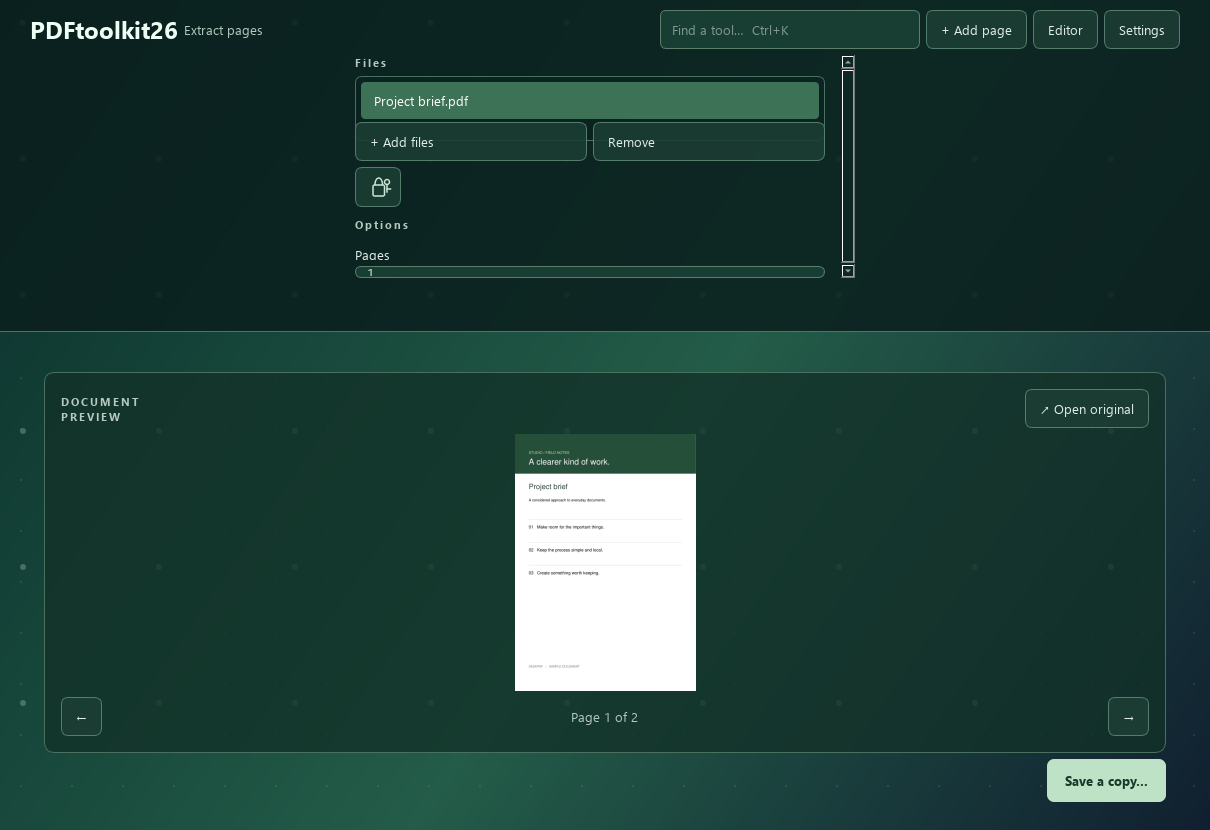
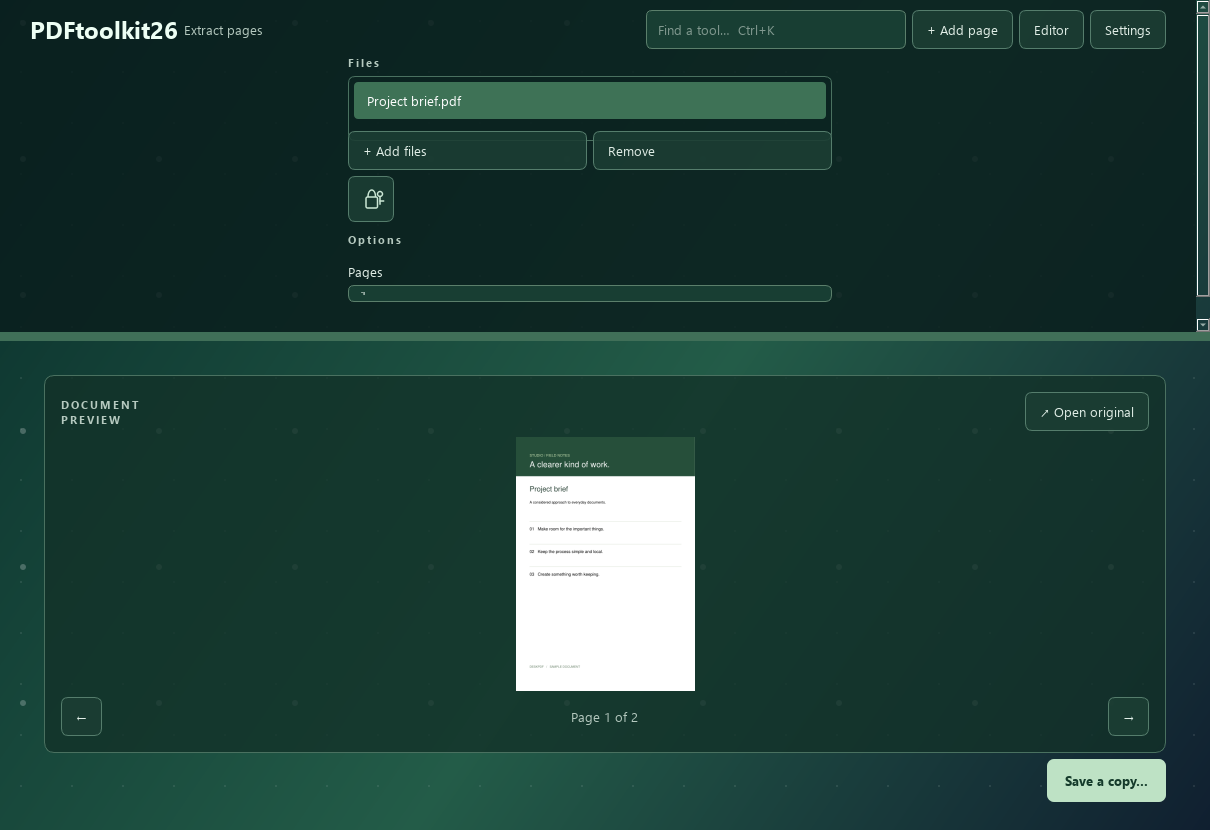
Add resizable toolbar divider and maximized page focus with side navigation

diff --git a/deskpdf/app.py b/deskpdf/app.py
@@ -7,7 +7,7 @@ import pymupdf as pdf
 from PySide6.QtCore import Qt, QThread, Signal, QUrl, QSize, QTimer
 from PySide6.QtGui import QDesktopServices, QIcon, QImage, QKeySequence, QPixmap, QShortcut
 from PySide6.QtWidgets import (
-    QApplication, QComboBox, QMenu, QFileDialog, QFormLayout, QFrame, QGridLayout,
+    QApplication, QComboBox, QMenu, QSplitter, QFileDialog, QFormLayout, QFrame, QGridLayout,
     QHBoxLayout, QLabel, QLineEdit, QListWidget, QListWidgetItem, QMainWindow,
     QMessageBox, QPlainTextEdit, QProgressBar, QPushButton, QScrollArea,
     QStackedWidget, QVBoxLayout, QWidget,
@@ -148,10 +148,22 @@ class Window(QMainWindow):
         top.addWidget(button("Editor", self.open_visual_editor))
         top.addWidget(settings)
         navigation.addLayout(top)
-        shell.addWidget(self.topbar)
+        self.toolbar_manual = False
+        self.partition = QSplitter(Qt.Orientation.Vertical)
+        self.partition.setChildrenCollapsible(False)
+        self.partition.setHandleWidth(9)
+        self.toolbar_scroll = QScrollArea()
+        self.toolbar_scroll.setFrameShape(QFrame.Shape.NoFrame)
+        self.toolbar_scroll.setWidgetResizable(True)
+        self.toolbar_scroll.setMinimumHeight(64)
+        self.toolbar_scroll.setWidget(self.topbar)
+        self.partition.addWidget(self.toolbar_scroll)
+        self.partition.splitterMoved.connect(lambda position, index: setattr(self, "toolbar_manual", True))
+        shell.addWidget(self.partition, 1)
         self.stack = QStackedWidget()
         self.stack.setContentsMargins(24, 0, 24, 12)
-        shell.addWidget(self.stack, 1)
+        self.partition.addWidget(self.stack)
+        self.partition.setStretchFactor(1, 1)
         self.build_catalog()
         self.build_workbench()
         self.show_catalog()
@@ -218,8 +230,13 @@ class Window(QMainWindow):
 
     def resizeEvent(self, event):
         super().resizeEvent(event)
-        if hasattr(self, "topbar"):
-            self.topbar.setFixedHeight(round(self.height() * (.40 if hasattr(self, "stack") and self.stack.currentIndex() == 1 else .22)))
+        if hasattr(self, "partition") and not self.toolbar_manual:
+            self.set_partition_default(.40 if self.stack.currentIndex() == 1 else .22)
+
+    def set_partition_default(self, fraction):
+        if not self.toolbar_manual:
+            top = round(self.height() * fraction)
+            self.partition.setSizes([top, max(240, self.height() - top)])
 
     def search_tools(self):
         if hasattr(self, "cards"):
@@ -253,7 +270,7 @@ class Window(QMainWindow):
         self.add_page_action.hide()
         self.editor_controls.hide()
         self.description.hide()
-        self.topbar.setFixedHeight(round(self.height() * .22))
+        self.set_partition_default(.22)
         self.group = group
         self.active_title.setText("")
         self.stack.setCurrentIndex(0)
@@ -409,7 +426,7 @@ class Window(QMainWindow):
         self.add_page_action.show()
         self.editor_controls.show()
         self.description.hide()
-        self.topbar.setFixedHeight(round(self.height() * .40))
+        self.set_partition_default(.40)
         self.visual_merge.controls.setVisible(tool.id == "merge")
         self.current_tool = tool
         self.title.setText(tool.title)
@@ -618,7 +635,7 @@ class Window(QMainWindow):
             QDesktopServices.openUrl(QUrl.fromLocalFile(str(self.last_output)))
 
     def about(self):
-        QMessageBox.about(self, "About PDFtoolkit26", "PDFtoolkit26 0.5.2\n\nA local-first, open-source PDF workbench.\nAGPL-3.0-or-later · Built with Qt and MuPDF.\n\nNo telemetry, accounts or document uploads.\nOCR needs Tesseract; Office input needs LibreOffice.\nVisual signatures are not certificate signatures.\n\nWindows 11: Explorer commands appear under Show more options.")
+        QMessageBox.about(self, "About PDFtoolkit26", "PDFtoolkit26 0.5.3\n\nA local-first, open-source PDF workbench.\nAGPL-3.0-or-later · Built with Qt and MuPDF.\n\nNo telemetry, accounts or document uploads.\nOCR needs Tesseract; Office input needs LibreOffice.\nVisual signatures are not certificate signatures.\n\nWindows 11: Explorer commands appear under Show more options.")
 
     def dragEnterEvent(self, event):
         if event.mimeData().hasUrls() and not (self.worker and self.worker.isRunning()):

diff --git a/deskpdf/focus_page.py b/deskpdf/focus_page.py
@@ -1,0 +1,83 @@
+from pathlib import Path
+
+import pymupdf as pdf
+from PySide6.QtCore import Qt, QTimer
+from PySide6.QtGui import QImage, QKeySequence, QPainter, QPixmap, QShortcut
+from PySide6.QtWidgets import QCheckBox, QDialog, QGraphicsScene, QGraphicsView, QHBoxLayout, QLabel, QPushButton, QVBoxLayout
+
+from deskpdf.engine import open_document
+
+
+class PageFocus(QDialog):
+    def __init__(self, workspace, row, parent=None):
+        super().__init__(parent)
+        self.setWindowTitle("PDFtoolkit26 · Page focus")
+        self.workspace = workspace
+        self.row = row
+        layout = QVBoxLayout(self)
+        top = QHBoxLayout()
+        self.caption = QLabel()
+        top.addWidget(self.caption, 1)
+        self.included = QCheckBox("Include page")
+        self.included.toggled.connect(self.set_included)
+        top.addWidget(self.included)
+        close = QPushButton("Back to pages · Esc")
+        close.clicked.connect(self.reject)
+        top.addWidget(close)
+        layout.addLayout(top)
+        body = QHBoxLayout()
+        self.previous = QPushButton("❮")
+        self.previous.setAccessibleName("Previous page")
+        self.previous.setFixedWidth(56)
+        self.previous.clicked.connect(lambda: self.navigate(-1))
+        self.next = QPushButton("❯")
+        self.next.setAccessibleName("Next page")
+        self.next.setFixedWidth(56)
+        self.next.clicked.connect(lambda: self.navigate(1))
+        self.scene = QGraphicsScene(self)
+        self.view = QGraphicsView(self.scene)
+        self.view.setRenderHint(QPainter.RenderHint.SmoothPixmapTransform)
+        self.view.setDragMode(QGraphicsView.DragMode.ScrollHandDrag)
+        body.addWidget(self.previous)
+        body.addWidget(self.view, 1)
+        body.addWidget(self.next)
+        layout.addLayout(body, 1)
+        for key, action in (("Left", lambda: self.navigate(-1)), ("Right", lambda: self.navigate(1)), ("Ctrl++", lambda: self.view.scale(1.2, 1.2)), ("Ctrl+-", lambda: self.view.scale(1 / 1.2, 1 / 1.2))):
+            QShortcut(QKeySequence(key), self, activated=action)
+        self.render()
+
+    def set_included(self, checked):
+        self.workspace.pages.item(self.row).setCheckState(Qt.CheckState.Checked if checked else Qt.CheckState.Unchecked)
+
+    def navigate(self, offset):
+        self.row = max(0, min(self.workspace.pages.count() - 1, self.row + offset))
+        self.render()
+
+    def render(self):
+        item = self.workspace.pages.item(self.row)
+        path, number = item.data(Qt.ItemDataRole.UserRole)
+        with open_document(Path(path), self.workspace.password) as document:
+            page = document[number]
+            crop = self.workspace.crops.get((path, number))
+            if crop:
+                page.set_cropbox(pdf.Rect(crop))
+            pix = page.get_pixmap(matrix=pdf.Matrix(2, 2), alpha=False)
+            image = QImage(pix.samples, pix.width, pix.height, pix.stride, QImage.Format.Format_RGB888).copy()
+        self.scene.clear()
+        self.scene.addPixmap(QPixmap.fromImage(image))
+        self.scene.setSceneRect(0, 0, pix.width, pix.height)
+        self.caption.setText(f"{Path(path).name} · Page {number + 1} · {self.row + 1}/{self.workspace.pages.count()}")
+        self.included.blockSignals(True)
+        self.included.setChecked(item.checkState() == Qt.CheckState.Checked)
+        self.included.blockSignals(False)
+        self.previous.setEnabled(self.row > 0)
+        self.next.setEnabled(self.row + 1 < self.workspace.pages.count())
+        QTimer.singleShot(0, self.fit)
+
+    def fit(self):
+        self.view.fitInView(self.scene.sceneRect(), Qt.AspectRatioMode.KeepAspectRatio)
+
+    def resizeEvent(self, event):
+        super().resizeEvent(event)
+        if hasattr(self, "view"):
+            self.fit()

diff --git a/deskpdf/merge_view.py b/deskpdf/merge_view.py
@@ -19,7 +19,7 @@ class PageActions(QStyledItemDelegate):
         color = index.data(Qt.ItemDataRole.UserRole + 4) or "#bde2cd"
         painter.setPen(QColor(color))
         painter.drawLine(option.rect.left() + 4, option.rect.top() + 4, option.rect.right() - 4, option.rect.top() + 4)
-        for offset, text in ((8, "×"), (38, "⌗")):
+        for offset, text in ((8, "×"), (38, "⌗"), (68, "focus")):
             rect = option.rect.adjusted(option.rect.width() - 32, offset, -6, -(option.rect.height() - offset - 26))
             painter.fillRect(rect, QColor("#163f32"))
             painter.setPen(QPen(QColor(color), 1.5))
@@ -27,6 +27,9 @@ class PageActions(QStyledItemDelegate):
             if text == "×":
                 painter.drawLine(x + 8, y + 8, x + 18, y + 18)
                 painter.drawLine(x + 18, y + 8, x + 8, y + 18)
+            elif text == "focus":
+                painter.drawRect(x + 6, y + 6, 14, 14)
+                painter.drawLine(x + 9, y + 17, x + 18, y + 8)
             else:
                 painter.drawLine(x + 8, y + 4, x + 8, y + 18)
                 painter.drawLine(x + 8, y + 18, x + 22, y + 18)
@@ -40,6 +43,7 @@ class PageGrid(QListWidget):
     order_changed = Signal()
     delete_page = Signal(int)
     crop_page = Signal(int)
+    focus_page = Signal(int)
     set_action = Signal(int)
 
     def mouseReleaseEvent(self, event):
@@ -48,12 +52,12 @@ class PageGrid(QListWidget):
             rect = self.visualRect(index)
             x = event.position().x() - rect.left()
             y = event.position().y() - rect.top()
-            if x > rect.width() - 36 and 8 <= y < 65:
+            if x > rect.width() - 36 and 8 <= y < 95:
                 row = index.row()
                 self.blockSignals(True)
                 super().mouseReleaseEvent(event)
                 self.blockSignals(False)
-                (self.delete_page if y < 36 else self.crop_page).emit(row)
+                (self.delete_page if y < 36 else self.crop_page if y < 66 else self.focus_page).emit(row)
                 return
             if x < 70 and y < 36 and index.data(Qt.ItemDataRole.UserRole + 5):
                 row = index.row()
@@ -111,6 +115,7 @@ class MergeView(QWidget):
         self.pages.order_changed.connect(self.update_sets)
         self.pages.delete_page.connect(self.delete_page)
         self.pages.crop_page.connect(self.crop_page)
+        self.pages.focus_page.connect(self.focus_page)
         self.pages.set_action.connect(self.toggle_set)
         self.crops = {}
         self.collapsed = set()
@@ -163,6 +168,12 @@ class MergeView(QWidget):
     def delete_page(self, row):
         self.pages.takeItem(row)
         self.update_sets()
+
+    def focus_page(self, row):
+        from deskpdf.focus_page import PageFocus
+        dialog = PageFocus(self, row, self)
+        dialog.showMaximized()
+        dialog.exec()
 
     def crop_page(self, row):
         item = self.pages.item(row)

diff --git a/tests/test_focus_page.py b/tests/test_focus_page.py
@@ -1,0 +1,47 @@
+from pathlib import Path
+import pymupdf as pdf
+from PySide6.QtCore import Qt
+from deskpdf.focus_page import PageFocus
+from deskpdf.merge_view import MergeView
+from deskpdf.app import Window
+
+
+def test_focus_navigation_crop_and_selection(tmp_path, application_session):
+    source = tmp_path / "pages.pdf"
+    with pdf.open() as document:
+        document.new_page(width=400, height=600)
+        document.new_page(width=400, height=600)
+        document.save(source)
+    workspace = MergeView()
+    workspace.refresh([source], "")
+    workspace.crops[(str(source), 1)] = (20, 20, 380, 580)
+    focus = PageFocus(workspace, 0)
+    assert not focus.previous.isEnabled()
+    assert focus.next.isEnabled()
+    focus.included.setChecked(True)
+    assert workspace.selection() == [(str(source), 0)]
+    focus.navigate(1)
+    assert focus.row == 1
+    assert not focus.next.isEnabled()
+    assert focus.scene.sceneRect().width() == 720
+    focus.navigate(1)
+    assert focus.row == 1
+    focus.navigate(-1)
+    assert focus.included.isChecked()
+    focus.close()
+    workspace.close()
+
+
+def test_toolbar_height_survives_window_resize(application_session):
+    window = Window()
+    window.show()
+    application_session.processEvents()
+    window.partition.setSizes([130, 650])
+    window.partition.splitterMoved.emit(130, 1)
+    before = window.partition.sizes()[0]
+    window.resize(1300, 950)
+    application_session.processEvents()
+    assert window.toolbar_manual
+    window.set_partition_default(.4)
+    assert window.partition.sizes()[0] < window.height() * .25
+    window.close()

diff --git a/deskpdf/theme.py b/deskpdf/theme.py
@@ -64,3 +64,5 @@ STYLE += "QPushButton#brand { background: transparent; border: 0; padding: 0; fo
 STYLE += "QDialog { background: #123a31; } QToolButton { background: #214a3b; color: #e8f3ec; border: 1px solid #658775; border-radius: 6px; padding: 8px 16px; } QToolButton:checked { background: #bee2c5; color: #143a2a; }"
 
 STYLE += "QPushButton#passwordConfirm { border-radius: 17px; background: #bee2c5; color: #143a2a; padding: 0; text-align: center; font-size: 22px; }"
+
+STYLE += "QSplitter::handle:vertical { background: #406f58; } QSplitter::handle:vertical:hover { background: #a2d8b4; }"

diff --git a/deskpdf/__init__.py b/deskpdf/__init__.py
@@ -1,1 +1,1 @@
-__version__ = "0.5.2"
+__version__ = "0.5.3"

diff --git a/README.md b/README.md
@@ -1,5 +1,7 @@
 # PDFtoolkit26
 
+The editor toolbar is resizable: drag the green divider between its controls and the page workspace. Each page thumbnail has a focus button below crop. Focus mode opens maximized, with previous/next arrows on the screen sides, Left/Right keyboard navigation, Ctrl++/Ctrl+- zoom, and Escape to return. It follows the current page order across PDFs, respects crops, and lets you include/exclude the focused page without losing the selection.
+
 Modern Windows 11 menu integration is implemented as a native command and a signed sparse package. See [shell integration](shell/README.md) for building, signing and registration. The local development installation uses an explicitly approved signing-certificate trust configuration; unsigned public installers retain the classic menu unless a signed shell package is supplied.
 
 Select one or more PDFs in Explorer and choose **Open with PDFtoolkit26**. The entry uses the application icon. Separate Explorer launch requests are forwarded to one running window, with paths containing spaces and Unicode preserved. On Windows 11 this classic menu entry appears under **Show more options**. The installer’s Explorer integration option controls installation and cleanup of the entry.
@@ -20,7 +22,7 @@ PDFtoolkit26 brings common PDF jobs into one native desktop app: choose a tool, 
 
 ## Install
 
-Download the installer from [GitHub Releases](https://github.com/pommfritzer/DeskPDFtoolkit/releases), or run `PDFtoolkit26-0.5.2-Setup.exe` from the local `releases` folder. The installer includes Python, Qt and the PDF engine; users do not install Python. Installation is per user and needs no administrator privileges.
+Download the installer from [GitHub Releases](https://github.com/pommfritzer/DeskPDFtoolkit/releases), or run `PDFtoolkit26-0.5.3-Setup.exe` from the local `releases` folder. The installer includes Python, Qt and the PDF engine; users do not install Python. Installation is per user and needs no administrator privileges.
 
 The optional Explorer integration adds **Open in PDFtoolkit26**, **Compress with PDFtoolkit26**, and **Extract pages with PDFtoolkit26** to PDF right-click menus. On Windows 11, use **Show more options**. Your default PDF reader is unchanged. Uninstall from Windows Settings to remove the app and its menu entries.
 
@@ -84,7 +86,7 @@ Install [Inno Setup 6](https://jrsoftware.org/isinfo.php), then:
 
 To upgrade the local installation and open Merge PDF, run `./scripts/install.ps1` from the project folder. It uses the project version's installer, retains installer task preferences, closes the previous app through the installer, and launches once afterward. Installation stays in `%LOCALAPPDATA%\Programs\PDFtoolkit26`; reinstalling updates the same Windows uninstall entry. Disabling Explorer integration or the desktop shortcut during setup removes those entries.
 
-The script regenerates the icon, runs tests, collects dependency licenses, bundles a standalone application with PyInstaller, checks bundled startup, and compiles `releases/PDFtoolkit26-0.5.2-Setup.exe`. Dependency discovery uses an isolated PATH to avoid picking up incompatible DLLs from unrelated installed software. The portable app is in `dist/PDFtoolkit26`. The Windows GitHub Actions workflow builds and uploads the installer on pushes and pull requests. Pushing a version tag such as `v0.5.2` also publishes the installer and SHA-256 checksum to a preview release. Update the version in `pyproject.toml`, `deskpdf/__init__.py`, the About dialog, installer definition and release workflow before tagging a new version.
+The script regenerates the icon, runs tests, collects dependency licenses, bundles a standalone application with PyInstaller, checks bundled startup, and compiles `releases/PDFtoolkit26-0.5.3-Setup.exe`. Dependency discovery uses an isolated PATH to avoid picking up incompatible DLLs from unrelated installed software. The portable app is in `dist/PDFtoolkit26`. The Windows GitHub Actions workflow builds and uploads the installer on pushes and pull requests. Pushing a version tag such as `v0.5.3` also publishes the installer and SHA-256 checksum to a preview release. Update the version in `pyproject.toml`, `deskpdf/__init__.py`, the About dialog, installer definition and release workflow before tagging a new version.
 
 ## Architecture
 
@@ -109,6 +111,6 @@ Use **Add page** in the editor to create an A4 title or divider page. The live c
 
 Editor controls are grouped in the expanded top partition. Each PDF set uses a numbered colour accent. The first-page arrow expands the set; the last-page arrow collapses it without excluding pages from export. Drag thumbnails across sets, or use **Move page to…** for an exact document position. Each thumbnail has delete above crop at the top right. The crop overlay supports dragging edges, corners or drawing a new rectangle; Reset restores the current crop boundary. Cropping hides margins and is not secure redaction. Page deletion affects this editing sequence, not your original files.
 
-### 0.5.2 interface controls
+### 0.5.3 interface controls
 
 Ctrl++ (or Ctrl+=) enlarges the interface, Ctrl+- reduces it, and Ctrl+0 resets it. Thumbnail size remains independently adjustable. Background dots use 6 px marks on a 136 px grid and 2 px marks on a 51 px grid. Swirls and continuous background repainting are removed. The lock-and-key control reveals a masked **input PDF password** field with a green arrow confirmation; it does not set output encryption. Use Protect PDF for that.

diff --git a/docs/VALIDATION.md b/docs/VALIDATION.md
@@ -1,5 +1,9 @@
 # Initial release validation
 
+## 0.5.3 resizable toolbar and page focus
+
+All 58 tests pass. New tests verify manual toolbar sizing survives window resizing, focus navigation boundaries, cropped focus rendering, and selection synchronisation with the thumbnail workspace. The compact toolbar and focused page view were rendered and visually inspected.
+
 ## 0.5.2 Windows 11 modern menu
 
 Built an x64 native IExplorerCommand DLL and sparse MSIX registration. Windows rejected unsigned executable activation and current-user-only signing trust. With the user's explicit approval, the local PDFtoolkit26 certificate was installed into Local Machine Trusted People; the signed package then registered with status OK. Native COM activation verified the exact menu title, executable icon path, enabled PDF state, and invocation handoff. No global menu preference or system security setting was disabled.
